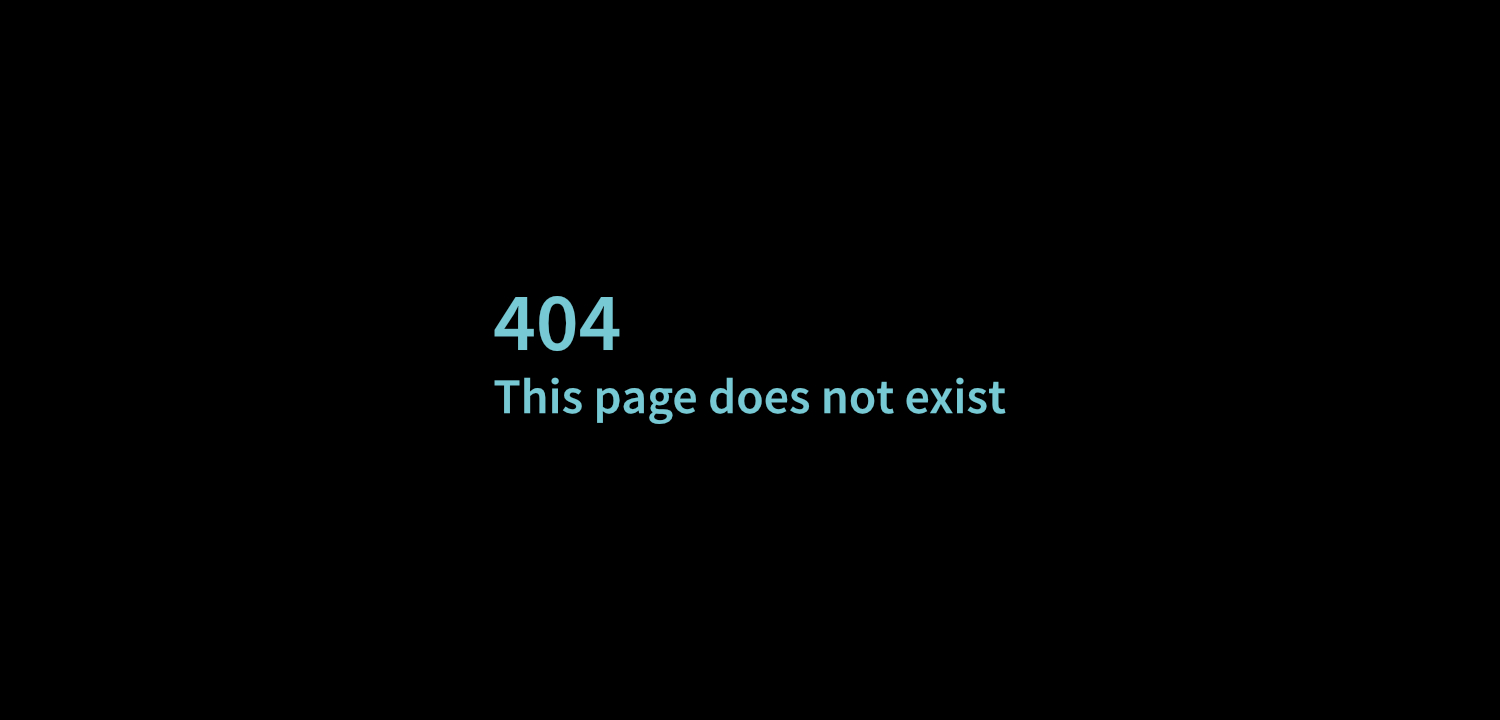
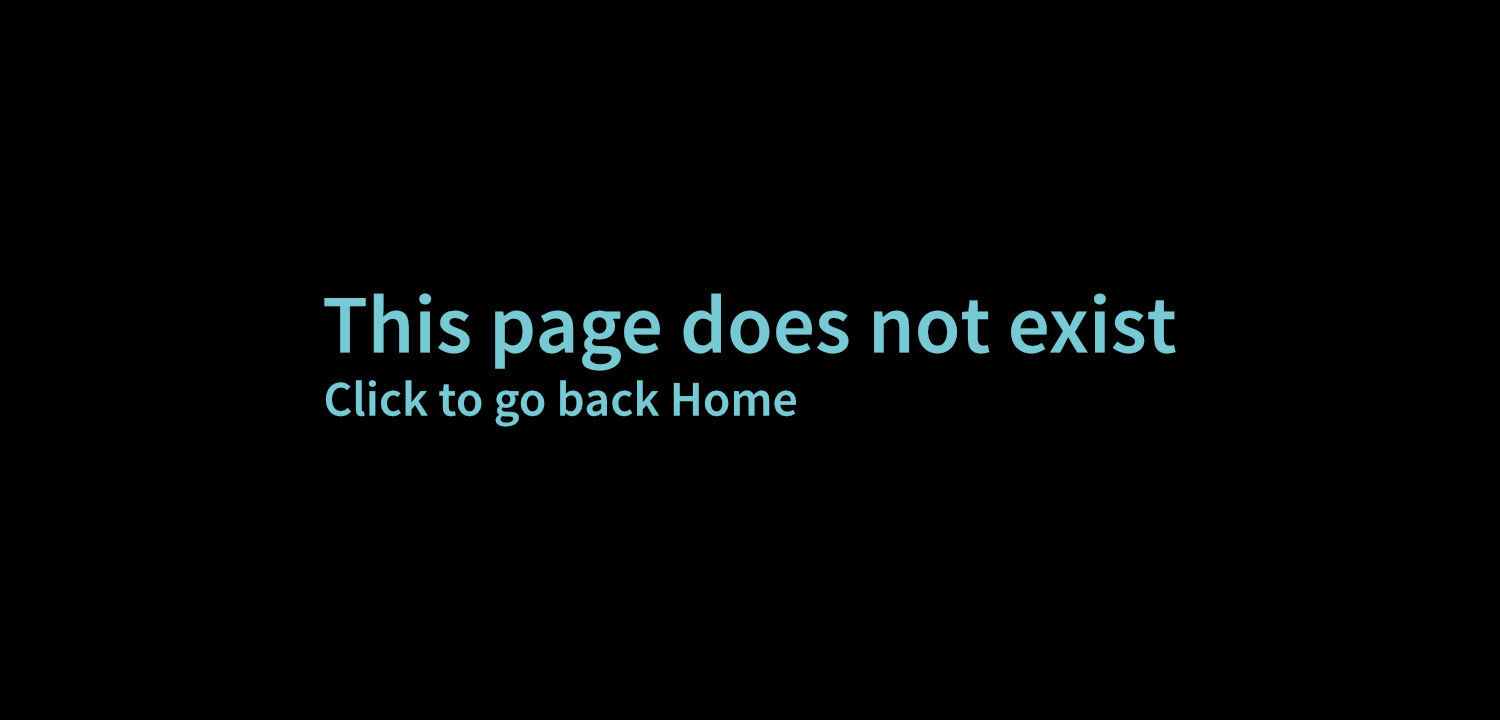
Update few UI

Changed region(s): [[0.2147, 0.3972, 0.7973, 0.6111]]

diff --git a/web/templates/base/404.html b/web/templates/base/404.html
@@ -12,6 +12,6 @@
 
 {% block main_block %}
     <div class="banner-container">
-        <img class="banner-image" src="{% static 'res/404.jpg' %}" alt="404" loading="lazy">
+        <a href="{% url 'index' %}"><img class="banner-image" src="{% static 'res/404.jpg' %}" alt="404" loading="lazy"></a>
     </div>
 {% endblock main_block %}

diff --git a/web/templates/index/index.html b/web/templates/index/index.html
@@ -4,6 +4,7 @@
 
 {% block title_block %}
     <title>iakesi</title>
+    <meta name="description" content="iakesi helps mapping anime real life anime locations to assist your next anime pilgrimage. Explore the locations in Japan, England, Singapore, and many more.">
 {% endblock title_block %}
 
 {% block css_block %}

diff --git a/web/static/css/style-location.css b/web/static/css/style-location.css
@@ -52,6 +52,7 @@ section {
 #section-location-list .location-item {
     padding: 1vh;
     transition: 0.3s;
+    border-bottom: 1px solid white;
 }
 
 #section-location-list .location-item:hover {

diff --git a/web/static/css/style-series.css b/web/static/css/style-series.css
@@ -116,6 +116,7 @@ h4 a:hover {
 #section-series-list li {
     padding: 1vh;
     transition: 0.3s;
+    border-bottom: 1px solid white;
 }
 
 #section-series-list li:hover {
